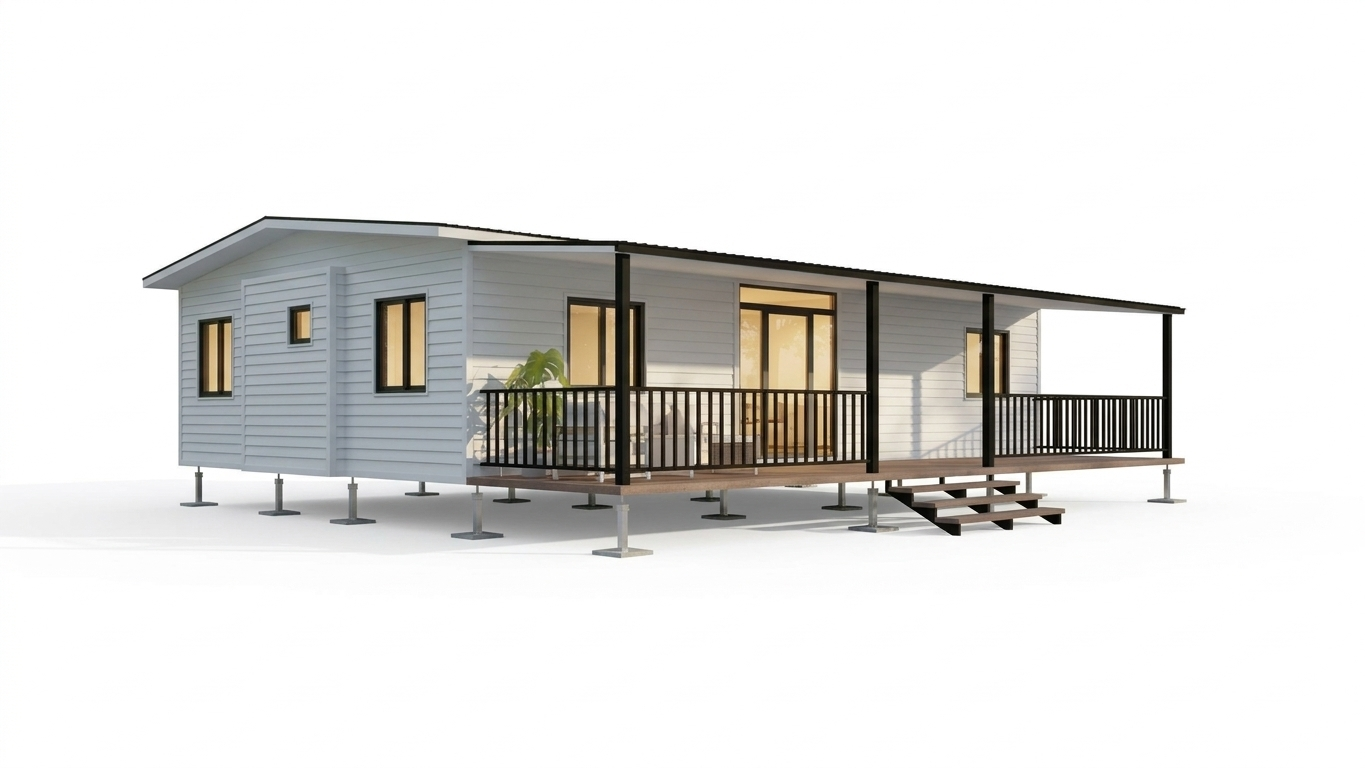
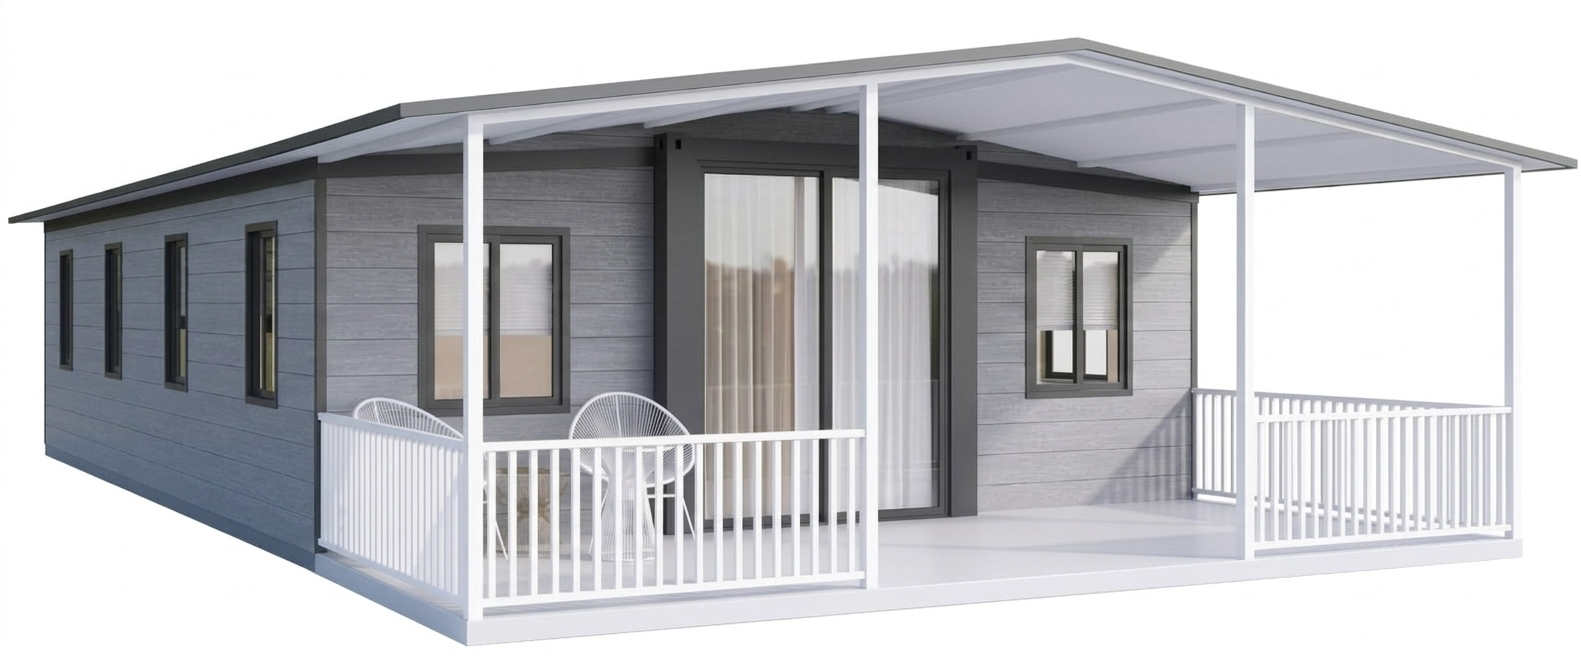
Update photos

diff --git a/index.html b/index.html
@@ -750,8 +750,9 @@ justify-content:center;
         <!-- 30ft -->
         <div class="model-card">
           <div class="model-gallery" id="g30">
-            <img src="freedom_30ft_01.png" class="active" alt="30ft gable roof">
-            <img src="freedom_30ft_02.jpg" alt="30ft with terrace">
+            <img src="freedom_30ft_01.png" class="active" alt="30ft exterior">
+            <img src="freedom_30ft_02.jpg" alt="30ft angle">
+            <img src="freedom_30ft_03.jpg" alt="30ft lifestyle">
             <span class="model-badge">30ft</span>
             <button class="gallery-arr gallery-prev" onclick="gNav('g30',-1)">‹</button>
             <button class="gallery-arr gallery-next" onclick="gNav('g30',1)">›</button>
@@ -786,9 +787,10 @@ justify-content:center;
         <!-- 40ft -->
         <div class="model-card">
           <div class="model-gallery" id="g40">
-            <img src="main.jpg" class="active" alt="40ft expandable home" onerror="this.src='freedom_40ft_01.jpg'">
-            <img src="freedom_40ft_01.jpg" alt="40ft with roof and patio">
+            <img src="freedom_40ft_01.jpg" class="active" alt="40ft expandable home">
+            <img src="freedom_40ft_02.jpg" alt="40ft exterior">
             <img src="freedom_40ft_03.png" alt="40ft white exterior">
+            <img src="freedom_40ft_04.png" alt="40ft angle">
             <img src="freedom_40ft_05.png" alt="40ft outdoor view">
             <span class="model-badge">40ft</span>
             <button class="gallery-arr gallery-prev" onclick="gNav('g40',-1)">‹</button>
